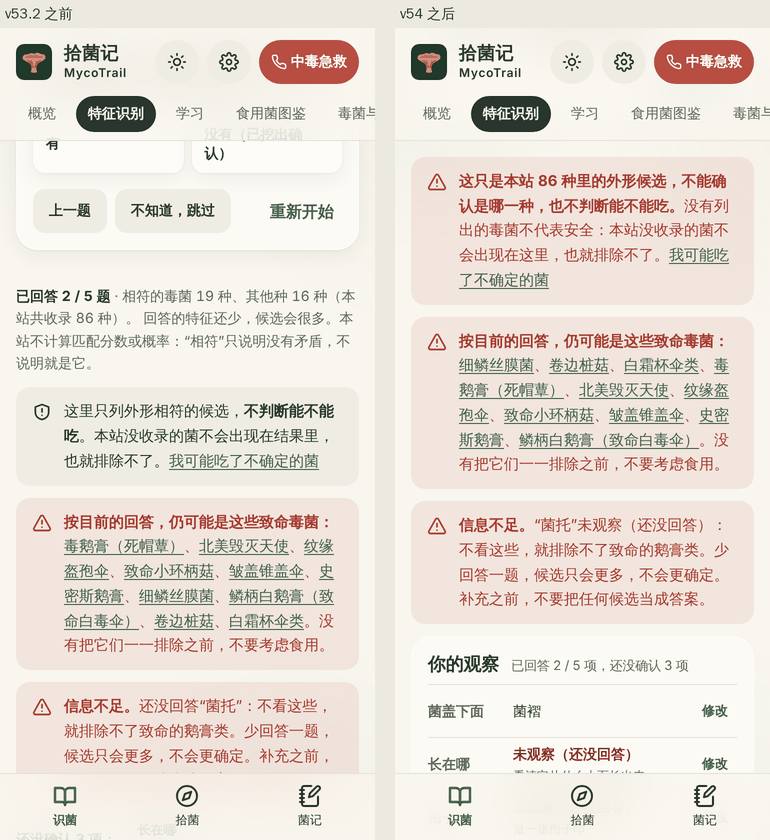
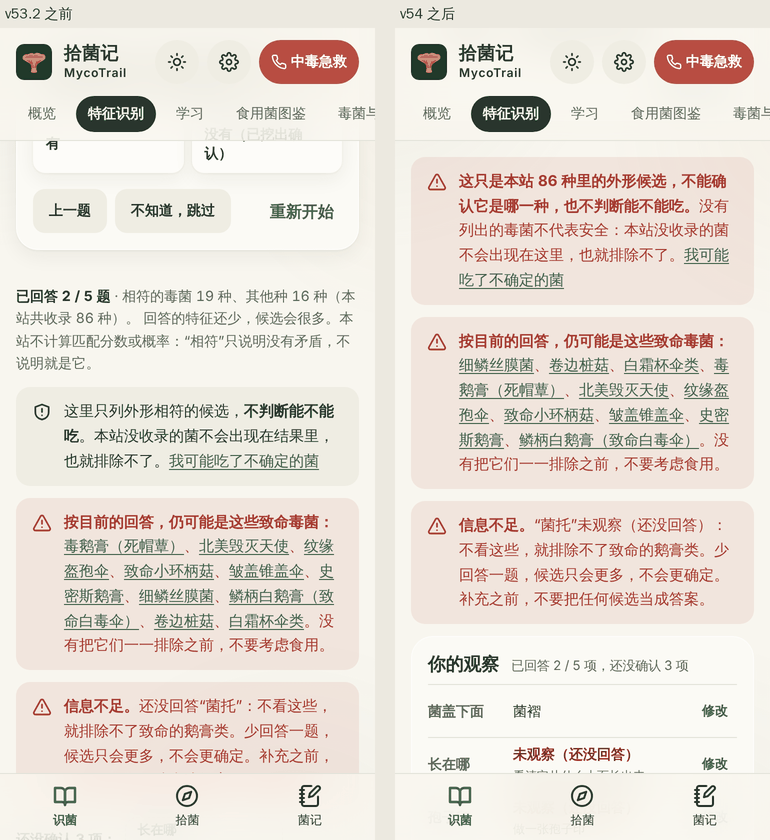
v54 (WIP): 44px 在模型上看, counter on one line, wording without 「确认是」
Claude-Session: https://claude.ai/code/session_01TqAgHX33PTJRwXRtcYYBoR

Changed region(s): [[0.5922, 0.2167, 0.9662, 0.3405]]

diff --git a/public/index.html b/public/index.html
@@ -519,7 +519,7 @@ textarea.finds__input { min-height: 88px; resize: vertical; line-height: 1.5; }
 .step { border: 1px solid var(--color-border); background: var(--color-card); border-radius: var(--radius); padding: var(--space-4); margin: 0 0 var(--space-3); }
 .step legend { padding: 0 var(--space-1); font-family: var(--font-heading); font-weight: var(--fw-700); font-size: var(--fs-h3); }
 .step__hint { font-size: var(--fs-footnote); color: var(--color-muted-foreground); margin: 0 0 var(--space-3); }
-.step__num { color: var(--color-warning-text); margin-right: var(--space-1); font-variant-numeric: tabular-nums; }
+.step__num { color: var(--color-warning-text); margin-right: var(--space-1); font-variant-numeric: tabular-nums; white-space: nowrap; flex: none; }
 .swatch { width: 14px; height: 14px; border-radius: 50%; border: 1px solid color-mix(in srgb, var(--color-foreground) 30%, transparent); flex: none; }
 .finder__note { display: flex; gap: var(--space-2); font-size: var(--fs-secondary); background: var(--color-warning-surface); color: var(--color-warning-text); border-radius: var(--radius); padding: var(--space-3) var(--space-4); margin-bottom: var(--space-4); }
 .finder__note .icon { margin-top: 2px; }
@@ -1102,7 +1102,7 @@ img.is-missing { visibility: hidden; }
 .model__canvas:active { cursor: grabbing; }
 .model__parts { display: flex; flex-wrap: wrap; gap: var(--space-2); }
 .model__desc { margin: var(--space-3) 0 0; min-height: 3.3em; font-size: var(--fs-body-sm); line-height: 1.6; max-width: 72ch; }
-.step__model { margin-left: auto; font-size: var(--fs-footnote); font-weight: var(--fw-500); color: var(--color-primary); background: none; border: 0; padding: 0 var(--space-1); min-height: 32px; cursor: pointer; }
+.step__model { margin-left: auto; font-size: var(--fs-footnote); font-weight: var(--fw-500); color: var(--color-primary); background: none; border: 0; padding: 0 var(--space-1); min-height: var(--target); flex: none; cursor: pointer; }
 @media (min-width: 768px) { .model__canvas { height: 320px; } }
 
 /* accessibility: no translucency when the system asks for it, or where blur is unsupported */
@@ -3192,7 +3192,7 @@ function renderFinder() {
       <ul class="wiz__intro-list">
         <li>一次只看一个部位，最多 5 个问题；顺序会按你的回答调整。</li>
         <li>看不到、拿不准就照实选，<b>不会被当成“没有”</b>，也不会用来排除毒菌。</li>
-        <li>结果只是本站收录的外形候选，<b>不能确认是哪一种，也不判断能不能吃</b>。</li>
+        <li>结果只是本站收录的外形候选，<b>不能确认它是哪一种，也不判断能不能吃</b>。</li>
       </ul>
       <button type="button" class="btn btn--primary" id="finder-start">开始观察${icon("arrow", "icon--sm")}</button>
     </section>`;
@@ -3238,7 +3238,7 @@ function renderFinder() {
   jump.innerHTML = `查看候选：毒菌 ${tox.length} · 其他 ${ed.length}${icon("chevron", "icon--sm")}`;
   $("#finder-live").textContent = `按目前的观察：相符的毒菌 ${tox.length} 种，其他候选 ${ed.length} 种。`;
   $("#finder-results").innerHTML = `
-    <div class="callout callout--danger res-safe" role="note">${icon("alert")}<div><b>这只是本站 ${n} 种里的外形候选，不能确认是哪一种，也不判断能不能吃。</b>没有列出的毒菌不代表安全：本站没收录的菌不会出现在这里，也就排除不了。<a href="#emergency">我可能吃了不确定的菌</a></div></div>
+    <div class="callout callout--danger res-safe" role="note">${icon("alert")}<div><b>这只是本站 ${n} 种里的外形候选，不能确认它是哪一种，也不判断能不能吃。</b>没有列出的毒菌不代表安全：本站没收录的菌不会出现在这里，也就排除不了。<a href="#emergency">我可能吃了不确定的菌</a></div></div>
     ${fstate.volva === "yes" ? `<div class="callout callout--danger" role="alert">${icon("skull")}<div><b>你看到了菌托。</b>这是鹅膏的重要标志，西北太平洋最致命的毒菌多是鹅膏。<b>不要吃。</b></div></div>` : ""}
     ${deadly.length ? `<div class="callout callout--danger" role="note">${icon("alert")}<div><b>按目前的回答，仍可能是这些致命毒菌：</b>${deadly.map(p => `<a href="#tx-${p.slug}">${esc(p.zh)}</a>`).join("、")}。没有把它们一一排除之前，不要考虑食用。</div></div>` : ""}
     ${keyGap.length ? `<div class="callout callout--danger" role="note">${icon("alert")}<div><b>信息不足。</b>${keyGap.map(k => `“${STEPS.find(x => x.key === k).short}”${fObs(k)}`).join("，")}：不看这些，就排除不了致命的鹅膏类。少回答一题，候选只会更多，不会更确定。补充之前，不要把任何候选当成答案。</div></div>` : ""}

diff --git a/src/template.html b/src/template.html
@@ -519,7 +519,7 @@ textarea.finds__input { min-height: 88px; resize: vertical; line-height: 1.5; }
 .step { border: 1px solid var(--color-border); background: var(--color-card); border-radius: var(--radius); padding: var(--space-4); margin: 0 0 var(--space-3); }
 .step legend { padding: 0 var(--space-1); font-family: var(--font-heading); font-weight: var(--fw-700); font-size: var(--fs-h3); }
 .step__hint { font-size: var(--fs-footnote); color: var(--color-muted-foreground); margin: 0 0 var(--space-3); }
-.step__num { color: var(--color-warning-text); margin-right: var(--space-1); font-variant-numeric: tabular-nums; }
+.step__num { color: var(--color-warning-text); margin-right: var(--space-1); font-variant-numeric: tabular-nums; white-space: nowrap; flex: none; }
 .swatch { width: 14px; height: 14px; border-radius: 50%; border: 1px solid color-mix(in srgb, var(--color-foreground) 30%, transparent); flex: none; }
 .finder__note { display: flex; gap: var(--space-2); font-size: var(--fs-secondary); background: var(--color-warning-surface); color: var(--color-warning-text); border-radius: var(--radius); padding: var(--space-3) var(--space-4); margin-bottom: var(--space-4); }
 .finder__note .icon { margin-top: 2px; }
@@ -1102,7 +1102,7 @@ img.is-missing { visibility: hidden; }
 .model__canvas:active { cursor: grabbing; }
 .model__parts { display: flex; flex-wrap: wrap; gap: var(--space-2); }
 .model__desc { margin: var(--space-3) 0 0; min-height: 3.3em; font-size: var(--fs-body-sm); line-height: 1.6; max-width: 72ch; }
-.step__model { margin-left: auto; font-size: var(--fs-footnote); font-weight: var(--fw-500); color: var(--color-primary); background: none; border: 0; padding: 0 var(--space-1); min-height: 32px; cursor: pointer; }
+.step__model { margin-left: auto; font-size: var(--fs-footnote); font-weight: var(--fw-500); color: var(--color-primary); background: none; border: 0; padding: 0 var(--space-1); min-height: var(--target); flex: none; cursor: pointer; }
 @media (min-width: 768px) { .model__canvas { height: 320px; } }
 
 /* accessibility: no translucency when the system asks for it, or where blur is unsupported */
@@ -3192,7 +3192,7 @@ function renderFinder() {
       <ul class="wiz__intro-list">
         <li>一次只看一个部位，最多 5 个问题；顺序会按你的回答调整。</li>
         <li>看不到、拿不准就照实选，<b>不会被当成“没有”</b>，也不会用来排除毒菌。</li>
-        <li>结果只是本站收录的外形候选，<b>不能确认是哪一种，也不判断能不能吃</b>。</li>
+        <li>结果只是本站收录的外形候选，<b>不能确认它是哪一种，也不判断能不能吃</b>。</li>
       </ul>
       <button type="button" class="btn btn--primary" id="finder-start">开始观察${icon("arrow", "icon--sm")}</button>
     </section>`;
@@ -3238,7 +3238,7 @@ function renderFinder() {
   jump.innerHTML = `查看候选：毒菌 ${tox.length} · 其他 ${ed.length}${icon("chevron", "icon--sm")}`;
   $("#finder-live").textContent = `按目前的观察：相符的毒菌 ${tox.length} 种，其他候选 ${ed.length} 种。`;
   $("#finder-results").innerHTML = `
-    <div class="callout callout--danger res-safe" role="note">${icon("alert")}<div><b>这只是本站 ${n} 种里的外形候选，不能确认是哪一种，也不判断能不能吃。</b>没有列出的毒菌不代表安全：本站没收录的菌不会出现在这里，也就排除不了。<a href="#emergency">我可能吃了不确定的菌</a></div></div>
+    <div class="callout callout--danger res-safe" role="note">${icon("alert")}<div><b>这只是本站 ${n} 种里的外形候选，不能确认它是哪一种，也不判断能不能吃。</b>没有列出的毒菌不代表安全：本站没收录的菌不会出现在这里，也就排除不了。<a href="#emergency">我可能吃了不确定的菌</a></div></div>
     ${fstate.volva === "yes" ? `<div class="callout callout--danger" role="alert">${icon("skull")}<div><b>你看到了菌托。</b>这是鹅膏的重要标志，西北太平洋最致命的毒菌多是鹅膏。<b>不要吃。</b></div></div>` : ""}
     ${deadly.length ? `<div class="callout callout--danger" role="note">${icon("alert")}<div><b>按目前的回答，仍可能是这些致命毒菌：</b>${deadly.map(p => `<a href="#tx-${p.slug}">${esc(p.zh)}</a>`).join("、")}。没有把它们一一排除之前，不要考虑食用。</div></div>` : ""}
     ${keyGap.length ? `<div class="callout callout--danger" role="note">${icon("alert")}<div><b>信息不足。</b>${keyGap.map(k => `“${STEPS.find(x => x.key === k).short}”${fObs(k)}`).join("，")}：不看这些，就排除不了致命的鹅膏类。少回答一题，候选只会更多，不会更确定。补充之前，不要把任何候选当成答案。</div></div>` : ""}

diff --git a/public/design-system.html b/public/design-system.html
@@ -476,7 +476,7 @@ textarea.finds__input { min-height: 88px; resize: vertical; line-height: 1.5; }
 .step { border: 1px solid var(--color-border); background: var(--color-card); border-radius: var(--radius); padding: var(--space-4); margin: 0 0 var(--space-3); }
 .step legend { padding: 0 var(--space-1); font-family: var(--font-heading); font-weight: var(--fw-700); font-size: var(--fs-h3); }
 .step__hint { font-size: var(--fs-footnote); color: var(--color-muted-foreground); margin: 0 0 var(--space-3); }
-.step__num { color: var(--color-warning-text); margin-right: var(--space-1); font-variant-numeric: tabular-nums; }
+.step__num { color: var(--color-warning-text); margin-right: var(--space-1); font-variant-numeric: tabular-nums; white-space: nowrap; flex: none; }
 .swatch { width: 14px; height: 14px; border-radius: 50%; border: 1px solid color-mix(in srgb, var(--color-foreground) 30%, transparent); flex: none; }
 .finder__note { display: flex; gap: var(--space-2); font-size: var(--fs-secondary); background: var(--color-warning-surface); color: var(--color-warning-text); border-radius: var(--radius); padding: var(--space-3) var(--space-4); margin-bottom: var(--space-4); }
 .finder__note .icon { margin-top: 2px; }
@@ -1059,7 +1059,7 @@ img.is-missing { visibility: hidden; }
 .model__canvas:active { cursor: grabbing; }
 .model__parts { display: flex; flex-wrap: wrap; gap: var(--space-2); }
 .model__desc { margin: var(--space-3) 0 0; min-height: 3.3em; font-size: var(--fs-body-sm); line-height: 1.6; max-width: 72ch; }
-.step__model { margin-left: auto; font-size: var(--fs-footnote); font-weight: var(--fw-500); color: var(--color-primary); background: none; border: 0; padding: 0 var(--space-1); min-height: 32px; cursor: pointer; }
+.step__model { margin-left: auto; font-size: var(--fs-footnote); font-weight: var(--fw-500); color: var(--color-primary); background: none; border: 0; padding: 0 var(--space-1); min-height: var(--target); flex: none; cursor: pointer; }
 @media (min-width: 768px) { .model__canvas { height: 320px; } }
 
 /* accessibility: no translucency when the system asks for it, or where blur is unsupported */

diff --git a/docs/V54_FINDER_UX.md b/docs/V54_FINDER_UX.md
@@ -29,7 +29,7 @@ Scope: the PRD "MycoTrail v54 · 特征识别体验升级". It reworks the exist
 ## Safety copy
 
 - The first block of every result is a danger callout:
-  「这只是本站 86 种里的外形候选，不能确认是哪一种，也不判断能不能吃。没有列出的毒菌不代表安全…」, with the emergency link.
+  「这只是本站 86 种里的外形候选，不能确认它是哪一种，也不判断能不能吃。没有列出的毒菌不代表安全…」, with the emergency link.
 - 吻合 is a neutral pill, not a green check. Green stays for interaction (selected answers) only.
 - The build now also fails on 「识别成功」「鉴定成功」「已鉴定」「可信度」「准确率」「放心采摘」「食用推荐」.
 - Also removed: the extra `scroll-margin-top` on `#finder-results`. It added up with `scroll-padding-top`, so 查看候选 landed
